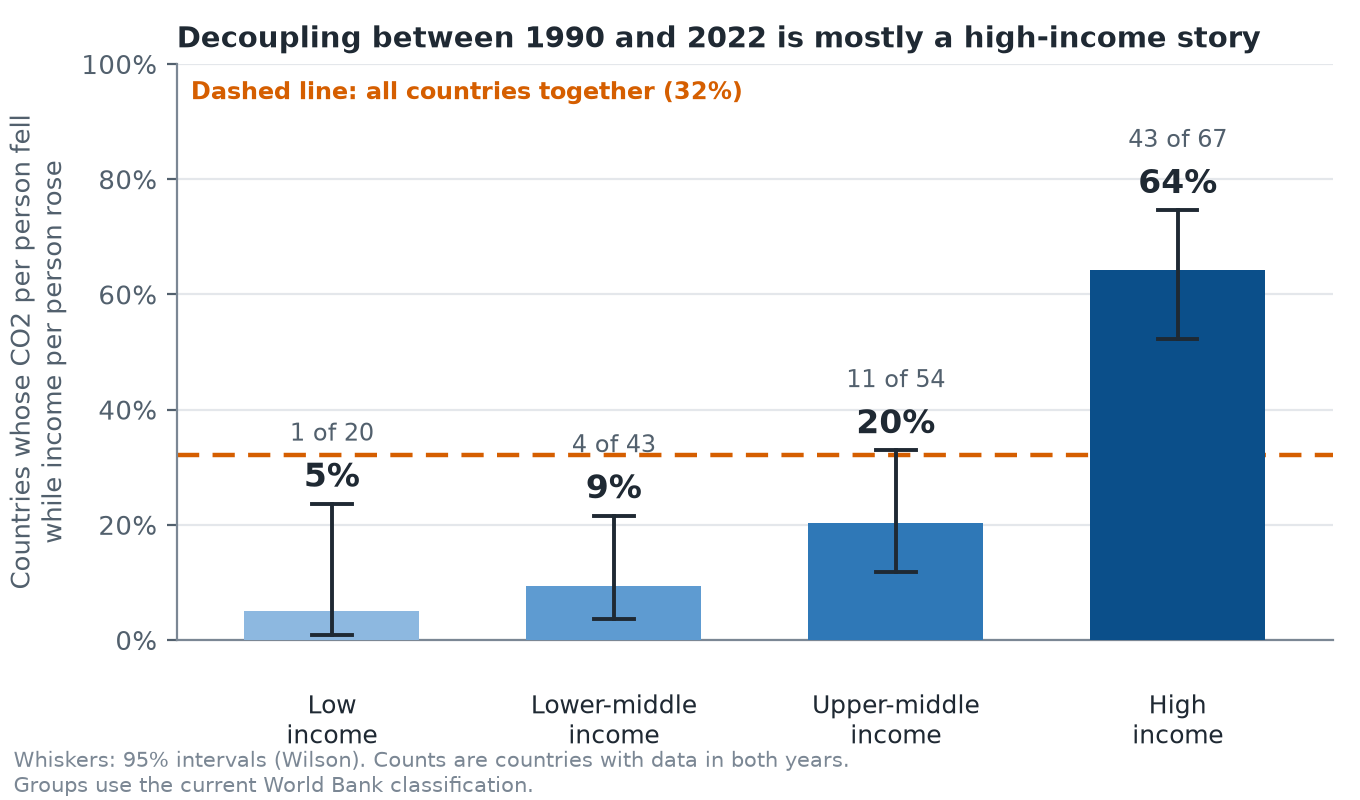
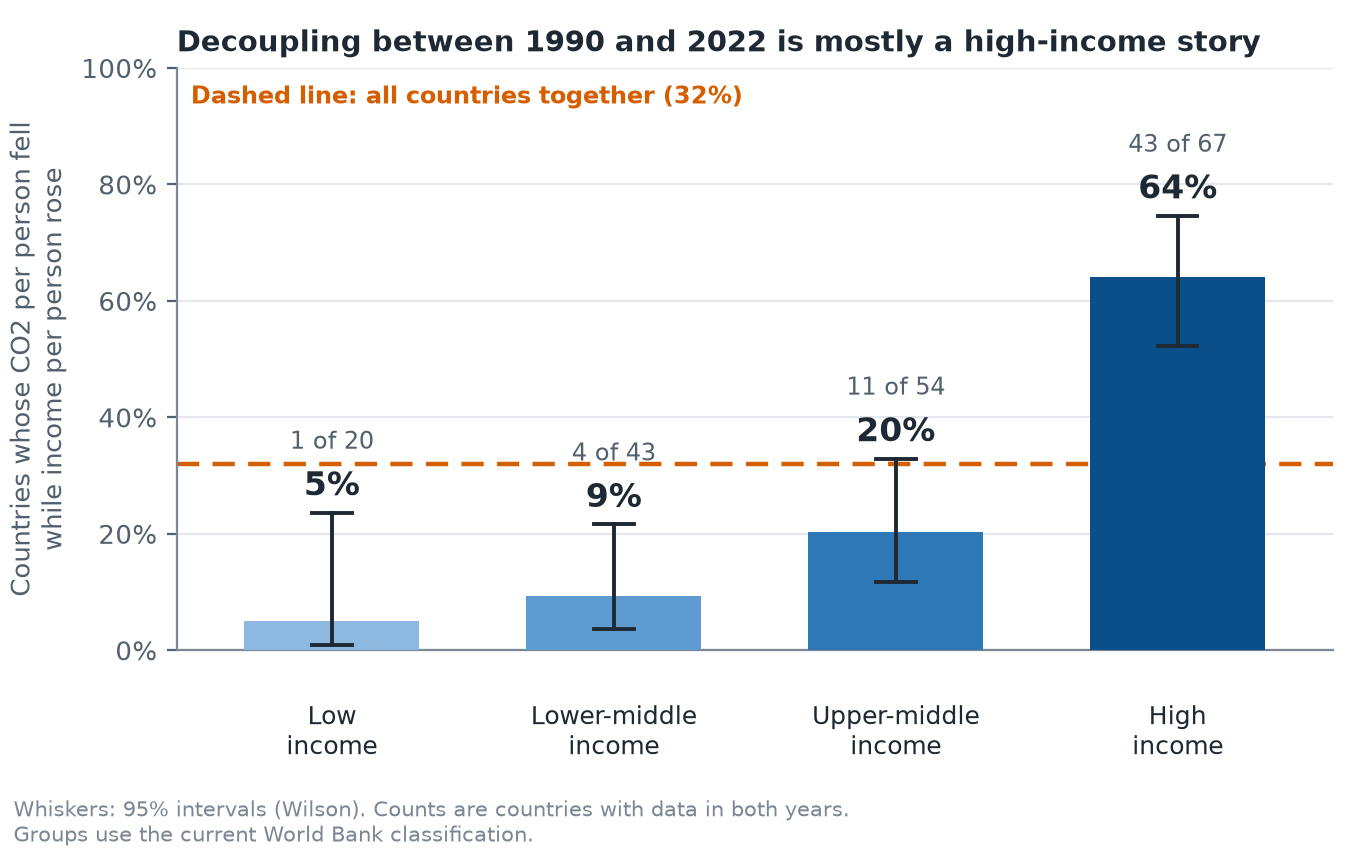
Polish figures and executive summary wording

diff --git a/src/make_figures.py b/src/make_figures.py
@@ -210,7 +210,7 @@ def fig_income_scatter() -> None:
 # =========================================================================================== 4 decoupling by group
 def fig_decoupling_by_group() -> None:
     d = pd.read_csv(RESULTS / "decoupling_by_income_1990_2022.csv").set_index("income_group")
-    fig, ax = plt.subplots(figsize=(W, 4.0))
+    fig, ax = plt.subplots(figsize=(W, 4.25))
     xs = np.arange(4)
     for i, g in enumerate(INCOME_ORDER):
         r = d.loc[g]
@@ -233,7 +233,7 @@ def fig_decoupling_by_group() -> None:
     ax.grid(axis="y", color=GRID, lw=0.8, zorder=0)
     ax.set_title("Decoupling between 1990 and 2022 is mostly a high-income story")
     fig.text(0.01, 0.01, "Whiskers: 95% intervals (Wilson). Counts are countries with data in both years." + NL + "Groups use the current World Bank classification.", fontsize=7.5, color=MUTED)
-    fig.subplots_adjust(left=0.13, right=0.98, top=0.92, bottom=0.2)
+    fig.subplots_adjust(left=0.13, right=0.98, top=0.92, bottom=0.235)
     save(fig, "fig_decoupling_by_group.png")
 
 

diff --git a/report/report_notes.md b/report/report_notes.md
@@ -5,7 +5,7 @@
 1. **Week 1 never ran its planned exploratory analysis.** It is a plan with real profiling and a preliminary rank correlation. The report says so (Sections 4.2, 5.1, 9) and draws the three most important planned pictures from Week 2 and Week 3 data. The "exploration" lens in the triangulation is therefore thin. If a marker expects a full EDA, this is the gap to point at.
 2. **Week 2's own checksum test fails on a fresh clone (1 of 25 checks).** The cause is line endings: the manifest hashes were taken from Windows (CRLF) files, but Git stored the World Bank CSVs with LF. Restoring CRLF reproduces every recorded hash (`results/data_vintage_check.csv`). No data values are affected. The report states this plainly (Section 3.4, R6). A one-line fix for the Week 2 repository would be a `.gitattributes` entry that marks `data/raw/**` as binary; I did not touch the earlier repositories.
 3. **All three earlier repositories carry commit dates on the same calendar day** (see `results/lineage.csv`). The report therefore speaks of four *steps* or *weeks* as the task structure and gives no dates and no hours. The brief says the task takes roughly 30 to 35 hours; I did not write any hours or effort table because you have not logged hours. Expect a marker who reads `git log` to notice the dates.
-4. **Body prose is 6,979 words** (limit 6,000 to 7,500, excluding the executive summary, tables, code, figure lines, captions, references and appendices). The executive summary is 584 words (limit 450 to 600). The whole file is about 17,041 words including tables and appendices. The "In short" callouts are one-column tables and are excluded from the body count; if your college counts them, the body is roughly 650 words higher and over the limit. Trim Section 6 or Section 8.2 first.
+4. **Body prose is 6,979 words** (limit 6,000 to 7,500, excluding the executive summary, tables, code, figure lines, captions, references and appendices). The executive summary is 587 words (limit 450 to 600). The whole file is about 17,044 words including tables and appendices. The "In short" callouts are one-column tables and are excluded from the body count; if your college counts them, the body is roughly 650 words higher and over the limit. Trim Section 6 or Section 8.2 first.
 5. **One recommended figure is missing.** Week 2's effect-size forest plot is taller than wide (ratio above 1), which breaks the "height at most 0.8 x width" rule, so it is not reused. The eight reused figures are listed in Appendix D. The reused figures keep their original look (fonts and palettes differ slightly from the new ones).
 6. **References.** Of 26 candidate references, 25 were verified through the Crossref API (title, journal, year, volume, pages, DOI; see `results/reference_check.csv`) and 19 of them are cited. Holm (1979) was dropped: Crossref returns no record for the original paper, so the Holm correction is explained without a citation. Four of the verified papers are cited for what their titles and (where Crossref supplies one) abstracts say, not for details I read in the full text: Le Quéré et al. (2019) and Hubacek et al. (2021) by title only, Haberl et al. (2020) by the opening of its abstract, Peters et al. (2011) by its abstract. Check the wording in Section 7.2 if a marker is strict. OWID and the World Bank are cited as web data sources, not as Crossref items. Earlier work is cited by repository and commit.
 7. **Colour-blind check.** The categorical colours used (blue, vermilion, orange) pass the palette validator. The four-step blue ramp for income groups does *not* pass the validator's strict test for telling categories apart (adjacent steps too close), so those figures also use marker shapes and direct labels. Light-blue and orange marks are below 3:1 contrast against white; labels and a table view carry the same information.

diff --git a/report/_build/sections/00_exec_summary.md b/report/_build/sections/00_exec_summary.md
@@ -21,7 +21,7 @@ In Week 1 we planned the exploration and checked the data. In Week 2 we wrote do
 - **Richer countries emit more per person.** The rank correlation between income and CO2 per person is {h1_rho} (a perfect match would score one and no link zero). *High confidence.*
 - **The gap is large.** High-income countries emit about {h3_ratio} times as much CO2 per person as lower-middle and low-income countries combined. *High confidence.*
 - **Decoupling is mostly a high-income story.** Between 1990 and 2022, {dec_pct_high}% of high-income countries decoupled, against {dec_pct_low}% to {dec_pct_um}% in the other groups. Still, {dec_notdec_pct_high}% of high-income countries did not. *High confidence.*
-- **Most high-income countries cut emissions per person.** The median fall was {h5_median_abs}% and CO2 per person fell in {h5_fell} of {h5_n} countries, but the effect is moderate and the test could only just detect it. *Moderate confidence.*
+- **Most high-income countries cut emissions per person.** The median fall was {h5_median_abs}% and CO2 per person fell in {h5_fell} of {h5_n} countries, but the effect is moderate and the study was only just large enough to detect it. *Moderate confidence.*
 - **The model ranks better than a simple rule, but it is not a decision tool.** Its ranking score was {test_prauc2_lr} against {test_prauc2_persistence} for a rule that copies the recent past (a model with no skill scores about {test_prauc2_prior}, the share of true cases). At its fixed cut-off it flagged almost every window. *Moderate confidence.*
 
 ### 1.4 Five recommendations

diff --git a/report/report_content.md b/report/report_content.md
@@ -21,7 +21,7 @@ In Week 1 we planned the exploration and checked the data. In Week 2 we wrote do
 - **Richer countries emit more per person.** The rank correlation between income and CO2 per person is 0.855 (a perfect match would score one and no link zero). *High confidence.*
 - **The gap is large.** High-income countries emit about 14.1 times as much CO2 per person as lower-middle and low-income countries combined. *High confidence.*
 - **Decoupling is mostly a high-income story.** Between 1990 and 2022, 64% of high-income countries decoupled, against 5% to 20% in the other groups. Still, 36% of high-income countries did not. *High confidence.*
-- **Most high-income countries cut emissions per person.** The median fall was 15.9% and CO2 per person fell in 50 of 74 countries, but the effect is moderate and the test could only just detect it. *Moderate confidence.*
+- **Most high-income countries cut emissions per person.** The median fall was 15.9% and CO2 per person fell in 50 of 74 countries, but the effect is moderate and the study was only just large enough to detect it. *Moderate confidence.*
 - **The model ranks better than a simple rule, but it is not a decision tool.** Its ranking score was 0.39 against 0.28 for a rule that copies the recent past (a model with no skill scores about 0.25, the share of true cases). At its fixed cut-off it flagged almost every window. *Moderate confidence.*
 
 ### 1.4 Five recommendations
